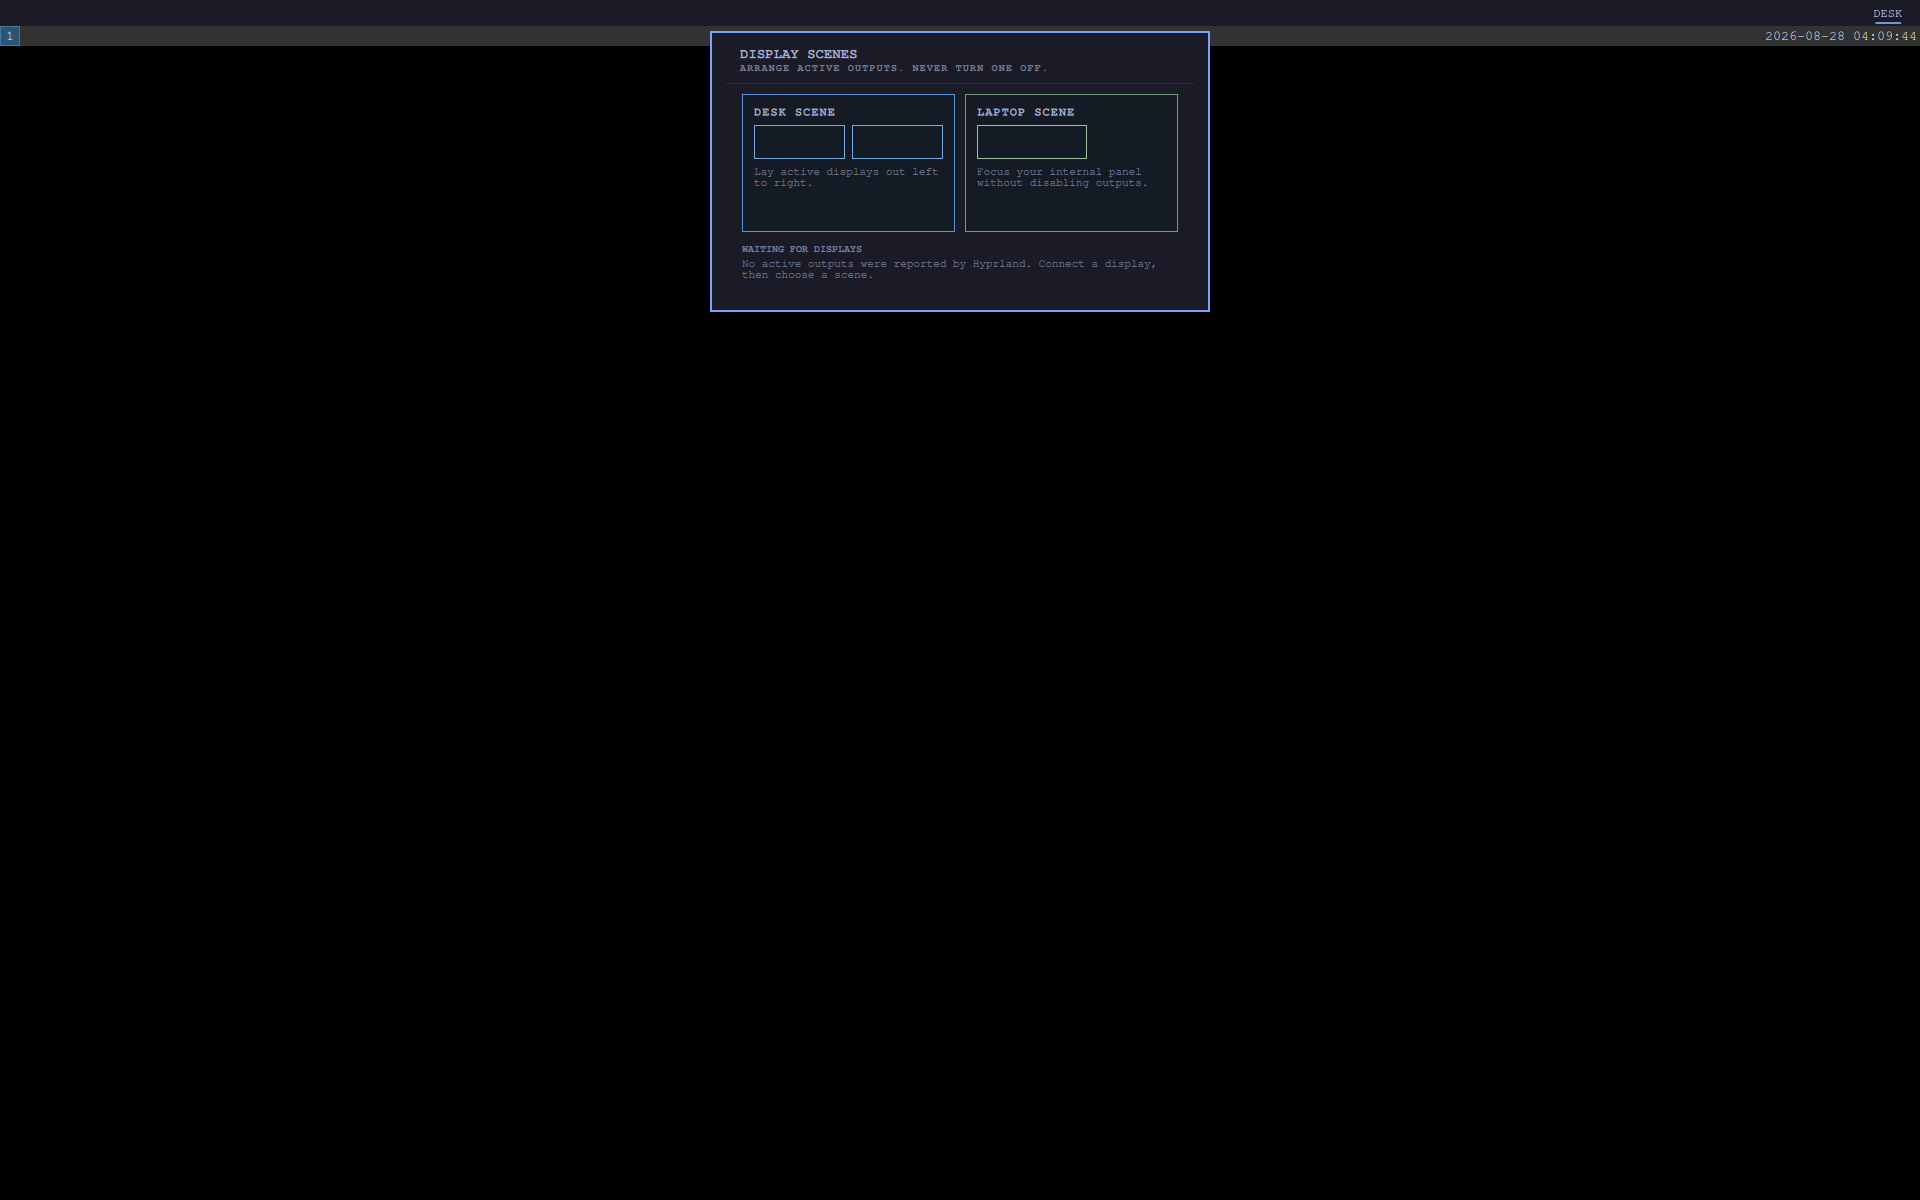
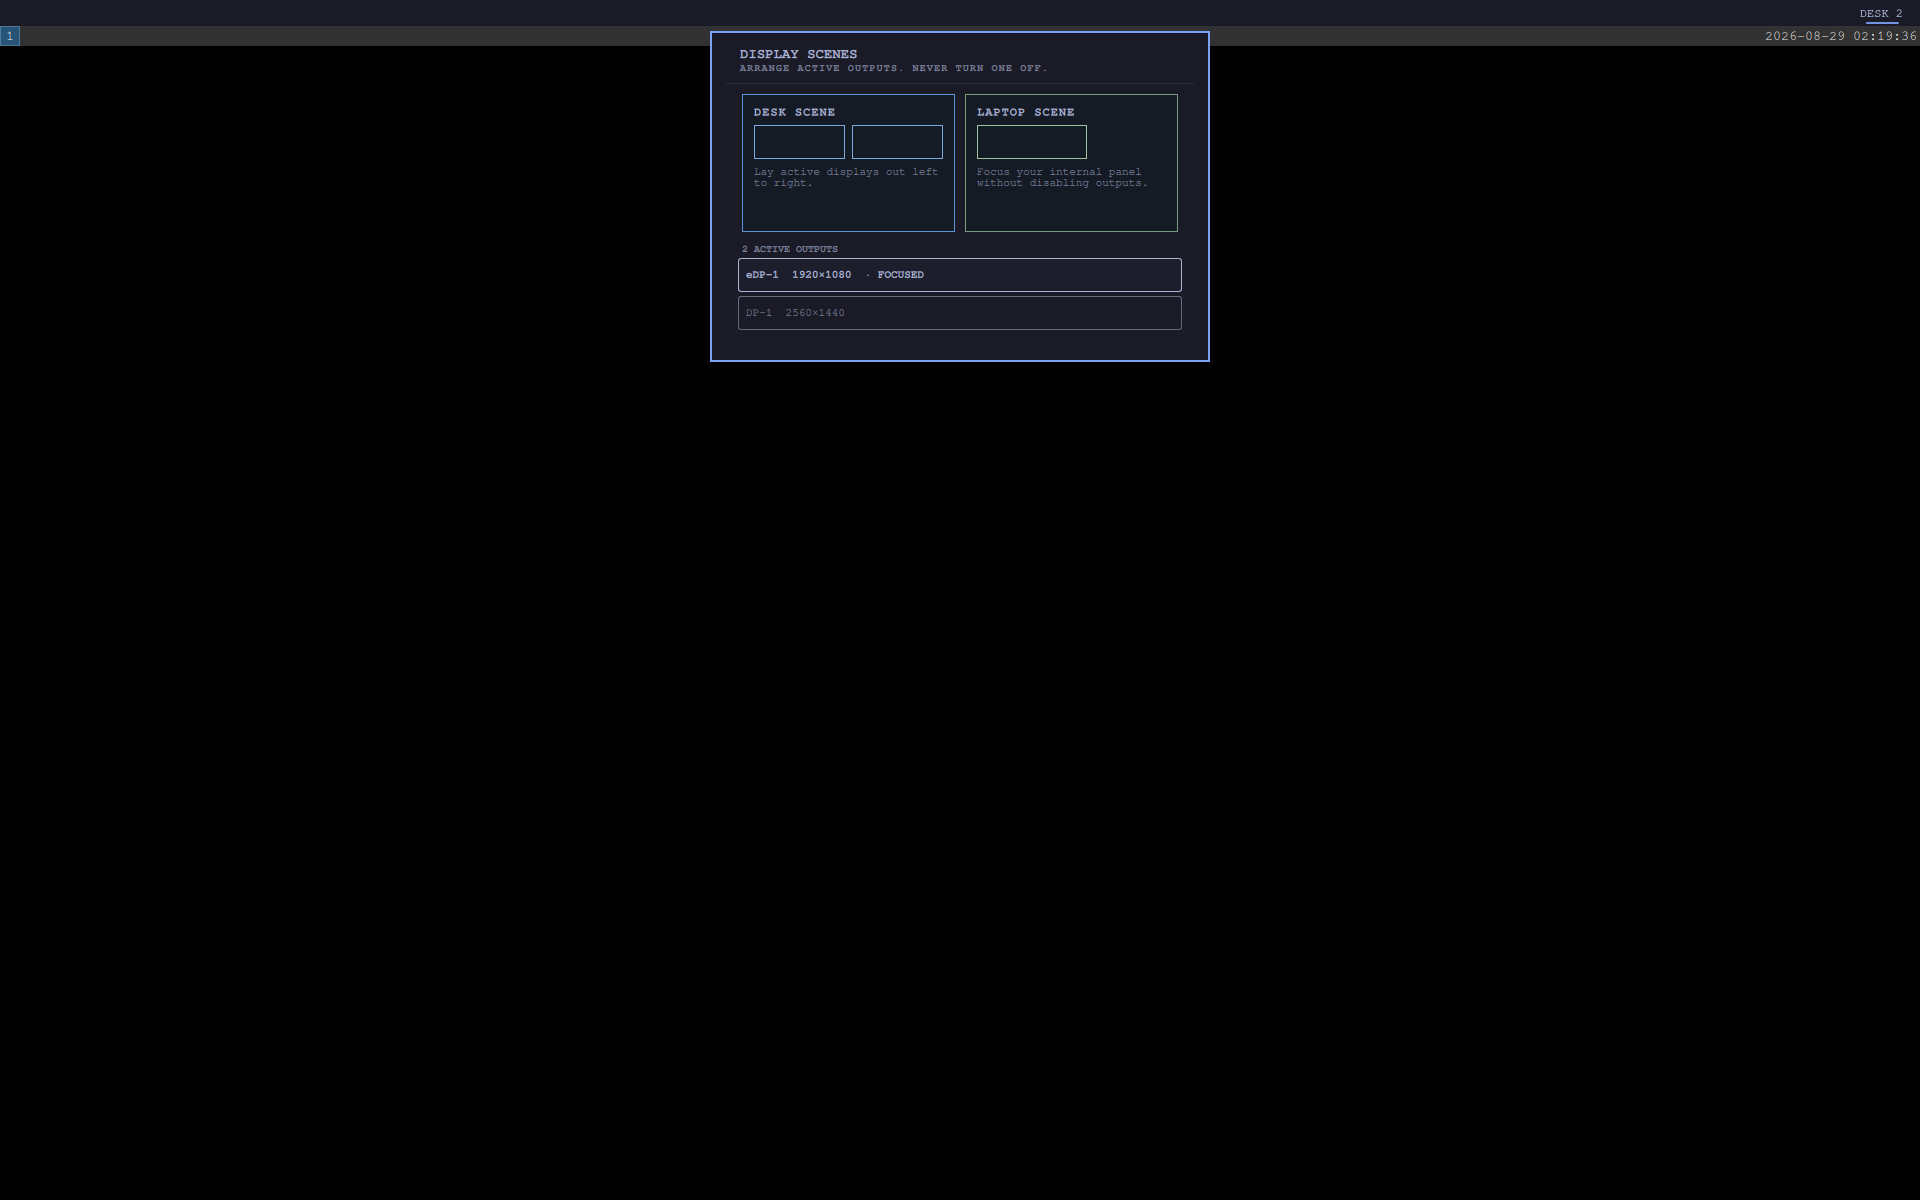
feat: capture desk transition with active outputs

Changed region(s): [[0.3438, 0.185, 0.6562, 0.3083], [0.9688, 0.0, 1.0, 0.0308]]

diff --git a/Panel.qml b/Panel.qml
@@ -146,11 +146,17 @@ Panel {
             PanelSectionHeader { text: root.state.monitors.length + " ACTIVE OUTPUTS"; leftPadding: Style.space(16); foreground: root.bar ? root.bar.foreground : Color.foreground; fontFamily: root.bar ? root.bar.fontFamily : Style.font.family }
             Repeater {
               model: root.state.monitors
-              Item {
+              Rectangle {
                 required property var modelData
-                width: content.width
-                height: Style.space(28)
-                Text { anchors.left: parent.left; anchors.leftMargin: Style.space(16); anchors.verticalCenter: parent.verticalCenter; text: modelData.name + "  " + modelData.width + "×" + modelData.height + (modelData.focused ? "  · FOCUSED" : ""); textFormat: Text.PlainText; width: parent.width - Style.space(32); elide: Text.ElideRight; color: modelData.focused ? (root.bar ? root.bar.foreground : Color.foreground) : (root.bar ? Qt.darker(root.bar.foreground, 1.3) : Color.muted); font.family: root.bar ? root.bar.fontFamily : Style.font.family; font.pixelSize: Style.font.bodySmall }
+                readonly property color selectedFill: root.bar ? Qt.lighter(root.bar.background, 1.12) : Qt.lighter(Color.background, 1.12)
+                x: Style.space(12)
+                width: content.width - Style.space(24)
+                height: Style.space(34)
+                radius: Style.space(3)
+                color: modelData.focused ? selectedFill : "transparent"
+                border.color: modelData.focused ? (root.bar ? root.bar.foreground : Color.foreground) : (root.bar ? Qt.darker(root.bar.foreground, 1.7) : Qt.darker(Color.foreground, 1.7))
+                border.width: 1
+                Text { anchors.left: parent.left; anchors.leftMargin: Style.space(8); anchors.right: parent.right; anchors.rightMargin: Style.space(8); anchors.verticalCenter: parent.verticalCenter; text: modelData.name + "  " + modelData.width + "×" + modelData.height + (modelData.focused ? "  · FOCUSED" : ""); textFormat: Text.PlainText; elide: Text.ElideRight; color: modelData.focused ? (root.bar ? root.bar.foreground : Color.foreground) : (root.bar ? Qt.darker(root.bar.foreground, 1.3) : Color.muted); font.family: root.bar ? root.bar.fontFamily : Style.font.family; font.pixelSize: Style.font.bodySmall; font.bold: modelData.focused }
                 MouseArea { anchors.fill: parent; cursorShape: Qt.PointingHandCursor; onClicked: root.run(["--focus", modelData.name]) }
               }
             }
